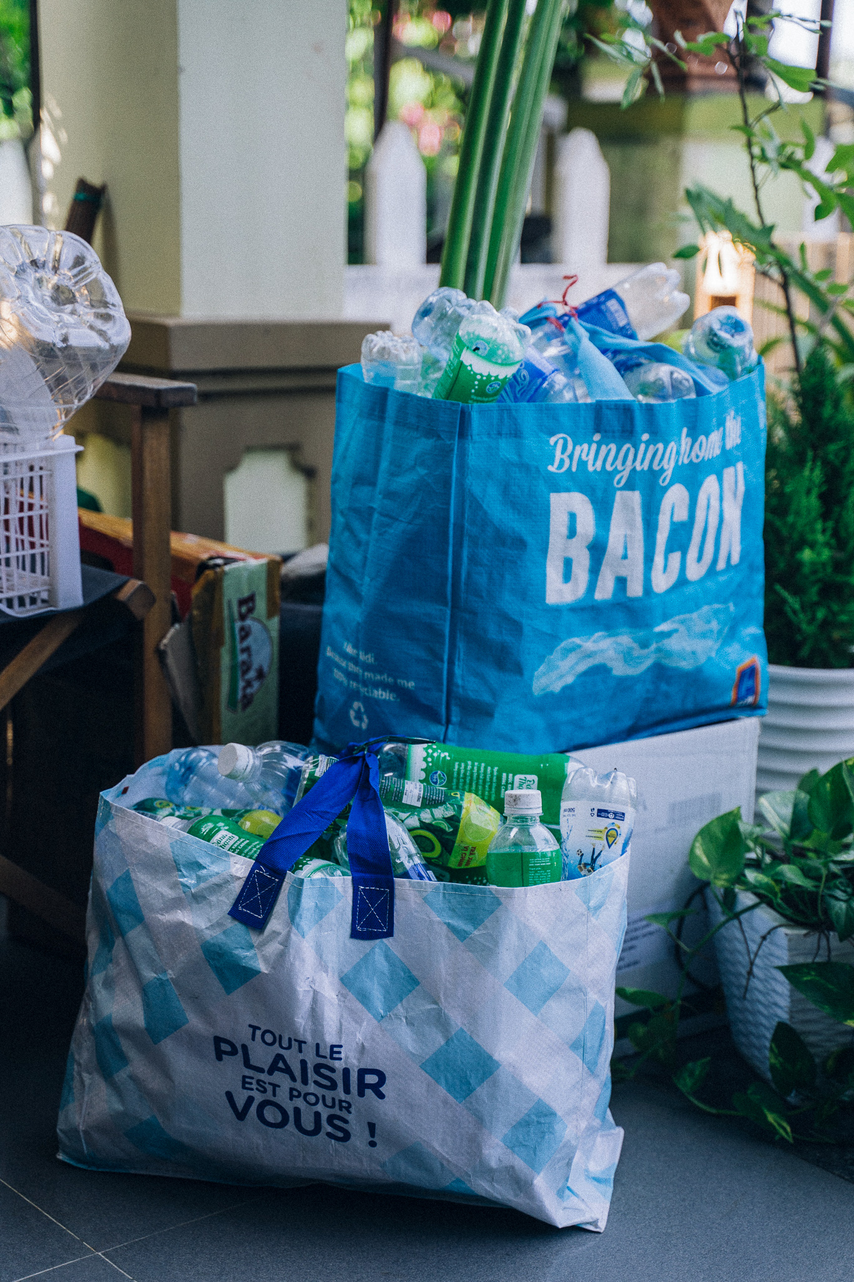
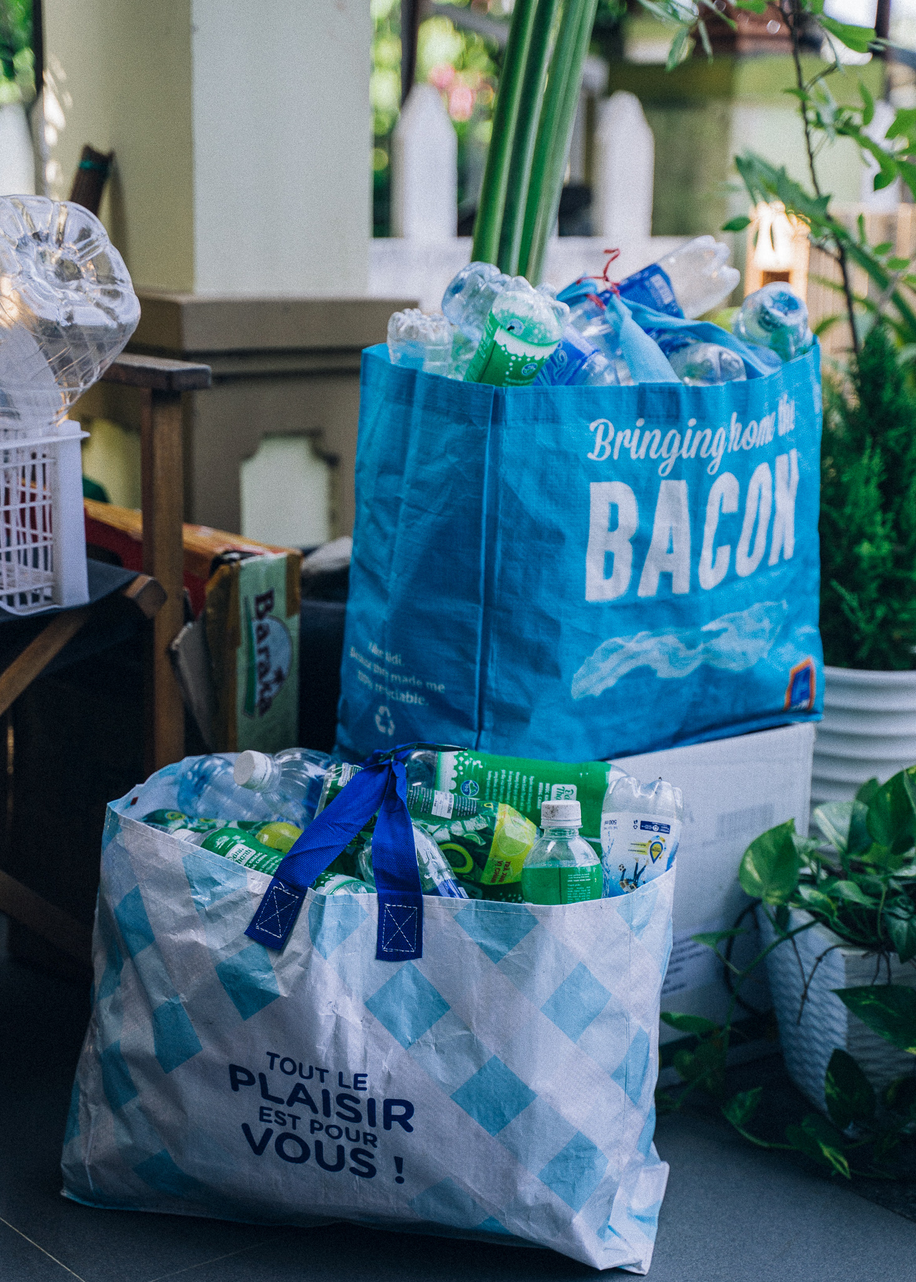
Cropped images
cropped images to be the same height

diff --git a/index.html b/index.html
@@ -29,9 +29,10 @@
         </section>
         <!-- add into section -->
         <section class="group01">
-            <img class="item01" src="images\pexels-anna-tarazevich-7772006.jpg" alt="image1">
-            <img class="item02" src="images\pexels-nataliya-vaitkevich-5425793.jpg" alt="image2">
-            <img class="item03" src="images\pexels-meruyert-gonullu-6033962-2.jpg" alt="image3">
+            <!-- Crop to match image 3 -->
+            <img class="item01" src="images\pexels-anna-tarazevich-7772006.jpg" alt="image1"> 
+            <img class="item02" src="images\pexels-nataliya-vaitkevich-5425793.jpg" alt="image2"> 
+            <img class="item03" src="images\pexels-meruyert-gonullu-6033962-2-.jpg" alt="image3">
         </section>
          <!-- add into section -->
         <section class="item04">
